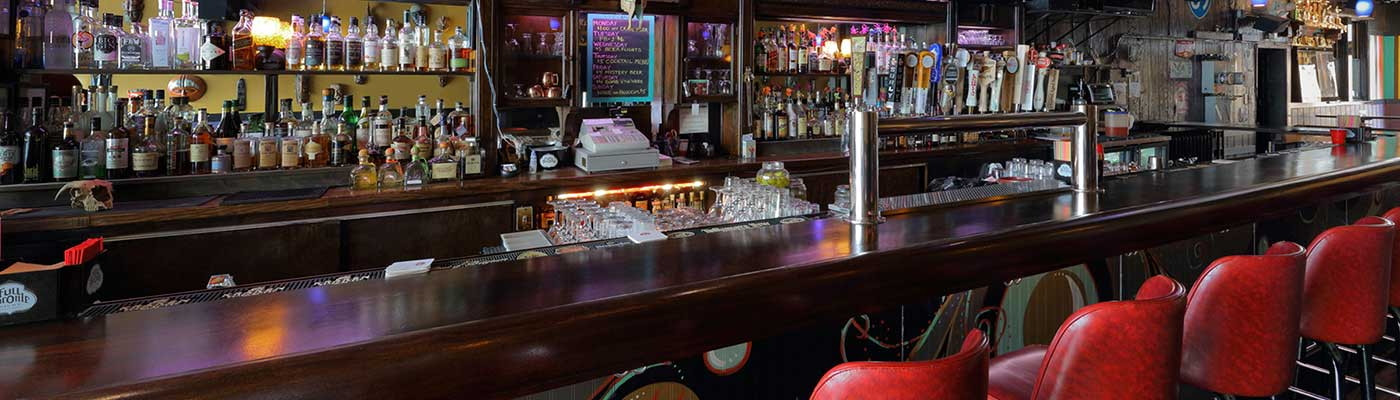
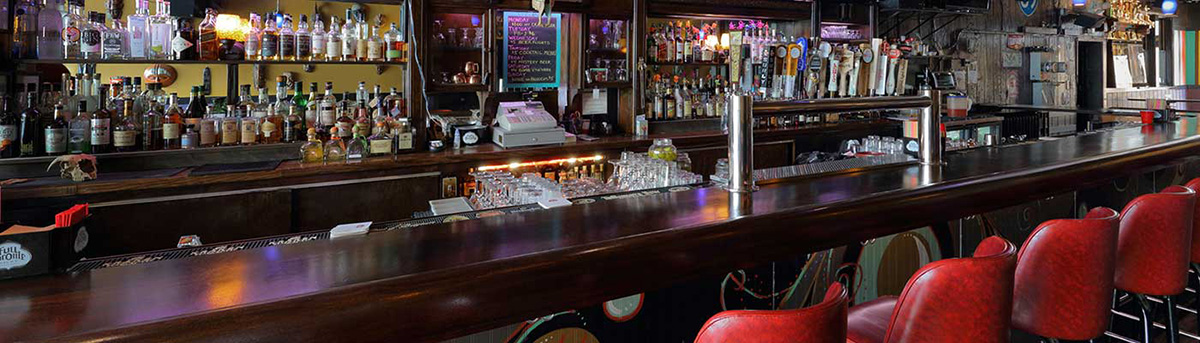
changed background image to 1200 x 343

diff --git a/scss/main.scss b/scss/main.scss
@@ -49,7 +49,7 @@ img {max-width:100%;}
   background-repeat: no-repeat;
   width: 100%;
   height: 0;
-  padding-top: 35.08%; /* (img-height / img-width * container-width) */   
+  padding-top: 28.58%; /* (img-height 1200 / img-width * 343 container-width) */   
 }
 #home .nav{
     background-image: url('../images/bar-top.jpg');  

diff --git a/stylesheets/main.css b/stylesheets/main.css
@@ -40,8 +40,8 @@ img {
   background-repeat: no-repeat;
   width: 100%;
   height: 0;
-  padding-top: 35.08%;
-  /* (img-height / img-width * container-width) */
+  padding-top: 28.58%;
+  /* (img-height 1200 / img-width * 343 container-width) */
 }
 
 /* line 54, ../scss/main.scss */
